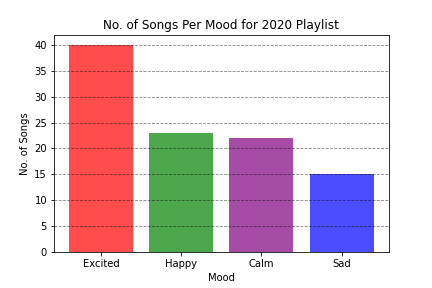
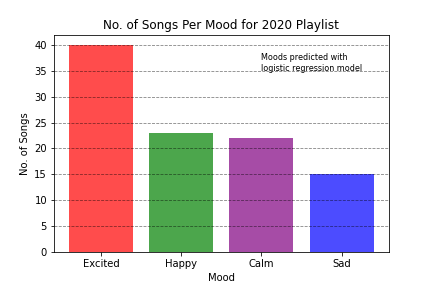
Added caption for logistic regression in mood count plots, some css styling with website main page

Changed region(s): [[0.6019, 0.1875, 0.8426, 0.25]]

diff --git a/templates/index.html b/templates/index.html
@@ -1,9 +1,9 @@
 {% extends 'base.html' %}
 {% block title %} Spotify Sentiment Analysis {% endblock %}
 {% block content %}
-<p class="intro">Welcome to the website of my dissertation project. This project aims to predict the moods of songs in a Spotify playlist by using both Spotify's track audio features and sentiment analysis of song lyrics, and feeding this data into a machine learning model. 
+<p id="intro">Welcome to the website of my dissertation project. This project aims to predict the moods of songs in a Spotify playlist by using both Spotify's track audio features and sentiment analysis of song lyrics, and feeding this data into a machine learning model. 
     <br><br>
-    For this specific project, it will be used to analyse specifically the Top Songs of 2020 (and 2019, 2021) to look at the listening habits of people during the COVID-19 pandemic, and how they may have been affected. On this website, you will be able to see the results of my analysis - for example, the most common moods in each year's top songs, how useful sentiment analysis of lyrics is in mood prediction, and my justification of the choice in machine learning model.
+    For my project, it will be used to analyse the Top Songs of 2019 - 2022 to look at the listening habits of people during the COVID-19 pandemic, and how they may have been affected. Here you will be able to see the results of my analysis - for example, the most common moods, how useful sentiment analysis of lyrics is in mood prediction, and my justification of choice in machine learning model. A logistic regression model was used to predict the moods - all charts shown are therefore based on this model.
 </p>
 
 <div class="button-container">
@@ -13,43 +13,55 @@
 
 <hr class="gradient">
 
+<p id="dataset-desc">Here, you can view the data analysis plots within each of these years' most listened to songs, and the predicted moods inside the playlists. Choose a dataset between the years of 2019 - 2022 (before, during, and after COVID-19 lockdowns):</p>
+
 <div class="menu-container">
     <select name="dropdown" id="dataset-options">
         <option>Datasets</option>
         <option value="1">Top Hits of 2019</option>
         <option value="2">Top Hits of 2020</option>
         <option value="3">Top Hits of 2021</option>
+        <option value="4">Top Hits of 2022</option>
     </select>
 
     <div id="options">
-        <div class="option-1" hidden>
-            <p>2019 hits content ttttttttttttttttttttttttttttt</p>
+        <div id="option-1" hidden>
+        <div class="spotify-embed">
+            <iframe style="border-radius:12px" src="https://open.spotify.com/embed/playlist/37i9dQZF1DWVRSukIED0e9?utm_source=generator" width="100%" height="152" frameBorder="0" allowfullscreen="" allow="autoplay; clipboard-write; encrypted-media; fullscreen; picture-in-picture" loading="lazy"></iframe>
+        </div> 
+            <p>2019 hits content tttttttttttttttttttttttttttttttttttttttttttttttttttttttt</p>
         </div>
-        <div class="option-2" hidden>
+        <div id="option-2" hidden>
             <p>2020 hits content ttttttttttttttttt</p>
         </div>
-        <div class="option-3" hidden>
+        <div id="option-3" hidden>
             <p>2021 hits content ttttttttttttttttttttttt</p>
+        </div>
+        <div id="option-4" hidden>
+            <p>2022 hits content tttttttttt</p>
         </div>
     </div>
 </div>
 
-
 <script>
 document.getElementById("dataset-options").addEventListener("change", function() {
-    document.querySelector(".option-1").hidden = true;
-    document.querySelector(".option-2").hidden = true;
-    document.querySelector(".option-3").hidden = true;
+    document.querySelector("#option-1").hidden = true;
+    document.querySelector("#option-2").hidden = true;
+    document.querySelector("#option-3").hidden = true;
+    document.querySelector("#option-4").hidden = true;
 
     var selected = this.value;
     if (selected === "1") {
-        document.querySelector(".option-1").hidden = false;
+        document.querySelector("#option-1").hidden = false;
     } 
-    else if (selected === '2') {
-        document.querySelector(".option-2").hidden = false;
+    else if (selected === "2") {
+        document.querySelector("#option-2").hidden = false;
     } 
-    else if (selected === '3') {
-        document.querySelector(".option-3").hidden = false;
+    else if (selected === "3") {
+        document.querySelector("#option-3").hidden = false;
+    }
+    else if (selected === "4") {
+        document.querySelector("#option-4").hidden = false;
     }
 }
 );

diff --git a/static/style.css b/static/style.css
@@ -40,17 +40,16 @@ body {
     color: #ffffff;
 }
 
-.intro {
+#intro {
     text-align: center;
     font-family: Arial, Helvetica, sans-serif;
 }
 
-.col-10 {
+.col-12 {
     display: flex;
     justify-content: center;
     flex-wrap: wrap;
 }
-
 
 .btn-primary {
     background-color: #1db954; 
@@ -60,7 +59,7 @@ body {
     font-size: 16px; 
     margin: 10px 8px;
     cursor: pointer; 
-    padding: 10px 25px; 
+    padding: 10px 25px;
 }
 
 hr.gradient {
@@ -77,6 +76,11 @@ hr.gradient {
   );
 }
 
+#dataset-desc {
+    text-align: center;
+    font-family: Arial, Helvetica, sans-serif;
+}
+
 .menu-container {
     display: flex;
     flex-direction: column;
@@ -85,5 +89,12 @@ hr.gradient {
 
 #dataset-options {
     width: 150px; 
+    height: 35px;
+    font-size: 16px;
+    background-color: #ffffff
 }
+
+/* .spotify-embed {
+    width: 100%;
+} */
 

diff --git a/templates/base.html b/templates/base.html
@@ -19,7 +19,7 @@
               <div class="col">
                 <!-- empty column for spacing -->
               </div>
-              <div class="col-10">
+              <div class="col-12">
                 {% block content %}
                 {% endblock %}
               </div>
